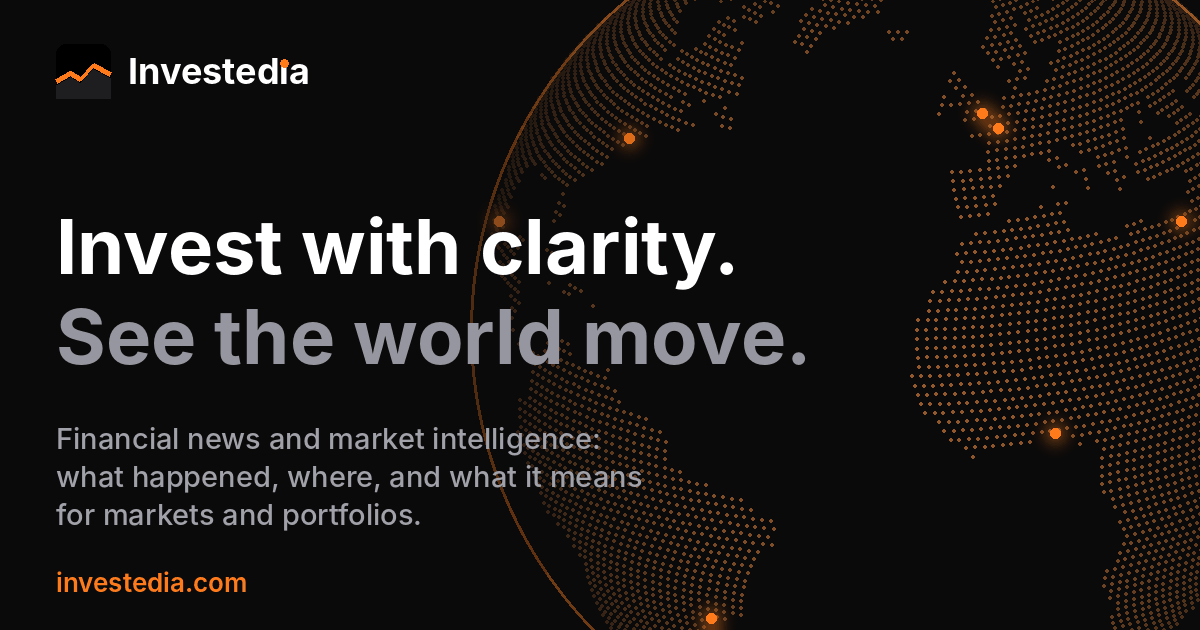
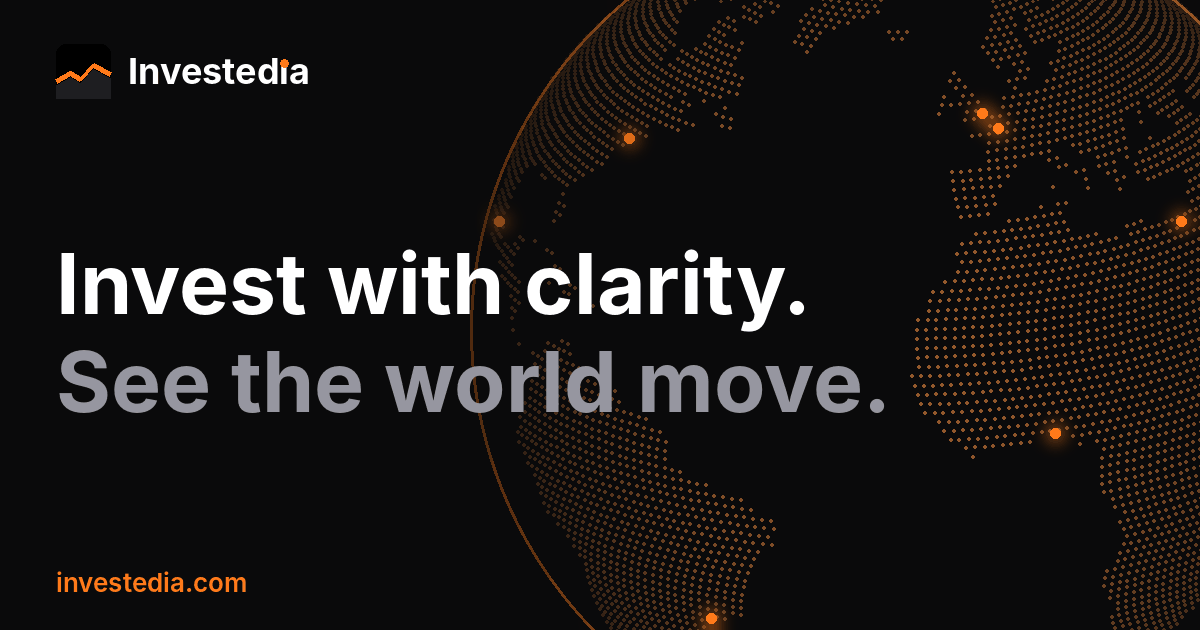
Link preview image with less text; Globe page shows the full globe with its controls
Claude-Session: https://claude.ai/code/session_01TVwQquwWiQ4b1A5oxv7JkP

Changed region(s): [[0.0308, 0.3317, 0.74, 0.8444]]

diff --git a/docs/globe.html b/docs/globe.html
@@ -2,8 +2,8 @@
 <html lang="en">
 <head>
 <meta charset="utf-8">
-<link rel="stylesheet" href="assets/consent.css?v=f475aa9965">
-<script src="assets/consent.js?v=f475aa9965"></script>
+<link rel="stylesheet" href="assets/consent.css?v=57b59e53c1">
+<script src="assets/consent.js?v=57b59e53c1"></script>
 <meta name="viewport" content="width=device-width,initial-scale=1,viewport-fit=cover">
 <title>Financial news globe — Investedia</title>
 <meta name="description" content="Every market on one interactive globe: stocks, currencies, commodities and stablecoins in 136 countries.">
@@ -22,8 +22,8 @@
 <meta name="twitter:description" content="Every market on one interactive globe: stocks, currencies, commodities and stablecoins in 136 countries.">
 <meta name="twitter:image" content="https://investedia.com/assets/og-default.png">
 <link rel="icon" href="assets/favicon.svg" type="image/svg+xml">
-<link rel="stylesheet" href="assets/app.css?v=f475aa9965">
-<link rel="stylesheet" href="assets/skin.css?v=f475aa9965">
+<link rel="stylesheet" href="assets/app.css?v=57b59e53c1">
+<link rel="stylesheet" href="assets/skin.css?v=57b59e53c1">
 <link rel="apple-touch-icon" href="assets/app/apple-touch-icon.png">
 <link rel="manifest" href="manifest.webmanifest">
 <meta name="apple-mobile-web-app-capable" content="yes">
@@ -46,19 +46,19 @@
 <a class="skip-link" href="#main-content">Skip to main content</a>
 <script src="assets/quotes.js"></script>
 <script src="assets/news.js"></script>
-<script src="assets/mock.js?v=f475aa9965"></script>
-<script src="assets/legal-owner.js?v=f475aa9965"></script>
-<link rel="stylesheet" href="assets/news-menu.css?v=f475aa9965">
-<script src="assets/live-config.js?v=f475aa9965"></script>
-<script src="assets/prefs.js?v=f475aa9965"></script>
-<script src="assets/peek.js?v=f475aa9965"></script>
-<script src="assets/sectors.js?v=f475aa9965"></script>
-<script src="assets/news-menu.js?v=f475aa9965"></script>
-<script src="assets/ui.js?v=f475aa9965"></script>
-<script src="assets/news-alerts.js?v=f475aa9965" defer></script>
+<script src="assets/mock.js?v=57b59e53c1"></script>
+<script src="assets/legal-owner.js?v=57b59e53c1"></script>
+<link rel="stylesheet" href="assets/news-menu.css?v=57b59e53c1">
+<script src="assets/live-config.js?v=57b59e53c1"></script>
+<script src="assets/prefs.js?v=57b59e53c1"></script>
+<script src="assets/peek.js?v=57b59e53c1"></script>
+<script src="assets/sectors.js?v=57b59e53c1"></script>
+<script src="assets/news-menu.js?v=57b59e53c1"></script>
+<script src="assets/ui.js?v=57b59e53c1"></script>
+<script src="assets/news-alerts.js?v=57b59e53c1" defer></script>
 <main class="wrap" id="main-content" tabindex="-1">
 <section class="globe-page"><iframe id="globe-frame" title="Financial news globe"></iframe></section>
-<script>document.getElementById('globe-frame').src = 'assets/globe/news.html?embed=1' + (location.search ? '&' + location.search.slice(1) : '');</script>
+<script>document.getElementById('globe-frame').src = 'assets/globe/news.html' + location.search;</script>
 </main>
 </body>
 </html>

diff --git a/globe.html b/globe.html
@@ -2,8 +2,8 @@
 <html lang="en">
 <head>
 <meta charset="utf-8">
-<link rel="stylesheet" href="assets/consent.css?v=f475aa9965">
-<script src="assets/consent.js?v=f475aa9965"></script>
+<link rel="stylesheet" href="assets/consent.css?v=57b59e53c1">
+<script src="assets/consent.js?v=57b59e53c1"></script>
 <meta name="viewport" content="width=device-width,initial-scale=1,viewport-fit=cover">
 <title>Financial news globe — Investedia</title>
 <meta name="description" content="Every market on one interactive globe: stocks, currencies, commodities and stablecoins in 136 countries.">
@@ -22,8 +22,8 @@
 <meta name="twitter:description" content="Every market on one interactive globe: stocks, currencies, commodities and stablecoins in 136 countries.">
 <meta name="twitter:image" content="https://investedia.com/assets/og-default.png">
 <link rel="icon" href="assets/favicon.svg" type="image/svg+xml">
-<link rel="stylesheet" href="assets/app.css?v=f475aa9965">
-<link rel="stylesheet" href="assets/skin.css?v=f475aa9965">
+<link rel="stylesheet" href="assets/app.css?v=57b59e53c1">
+<link rel="stylesheet" href="assets/skin.css?v=57b59e53c1">
 <link rel="apple-touch-icon" href="assets/app/apple-touch-icon.png">
 <link rel="manifest" href="manifest.webmanifest">
 <meta name="apple-mobile-web-app-capable" content="yes">
@@ -46,19 +46,19 @@
 <a class="skip-link" href="#main-content">Skip to main content</a>
 <script src="assets/quotes.js"></script>
 <script src="assets/news.js"></script>
-<script src="assets/mock.js?v=f475aa9965"></script>
-<script src="assets/legal-owner.js?v=f475aa9965"></script>
-<link rel="stylesheet" href="assets/news-menu.css?v=f475aa9965">
-<script src="assets/live-config.js?v=f475aa9965"></script>
-<script src="assets/prefs.js?v=f475aa9965"></script>
-<script src="assets/peek.js?v=f475aa9965"></script>
-<script src="assets/sectors.js?v=f475aa9965"></script>
-<script src="assets/news-menu.js?v=f475aa9965"></script>
-<script src="assets/ui.js?v=f475aa9965"></script>
-<script src="assets/news-alerts.js?v=f475aa9965" defer></script>
+<script src="assets/mock.js?v=57b59e53c1"></script>
+<script src="assets/legal-owner.js?v=57b59e53c1"></script>
+<link rel="stylesheet" href="assets/news-menu.css?v=57b59e53c1">
+<script src="assets/live-config.js?v=57b59e53c1"></script>
+<script src="assets/prefs.js?v=57b59e53c1"></script>
+<script src="assets/peek.js?v=57b59e53c1"></script>
+<script src="assets/sectors.js?v=57b59e53c1"></script>
+<script src="assets/news-menu.js?v=57b59e53c1"></script>
+<script src="assets/ui.js?v=57b59e53c1"></script>
+<script src="assets/news-alerts.js?v=57b59e53c1" defer></script>
 <main class="wrap" id="main-content" tabindex="-1">
 <section class="globe-page"><iframe id="globe-frame" title="Financial news globe"></iframe></section>
-<script>document.getElementById('globe-frame').src = 'assets/globe/news.html?embed=1' + (location.search ? '&' + location.search.slice(1) : '');</script>
+<script>document.getElementById('globe-frame').src = 'assets/globe/news.html' + location.search;</script>
 </main>
 </body>
 </html>

diff --git a/src/pages/globe.html b/src/pages/globe.html
@@ -1,3 +1,3 @@
 {"title":"Financial news globe — Investedia","desc":"Every market on one interactive globe: stocks, currencies, commodities and stablecoins in 136 countries.","key":"globe"}
 <section class="globe-page"><iframe id="globe-frame" title="Financial news globe"></iframe></section>
-<script>document.getElementById('globe-frame').src = 'assets/globe/news.html?embed=1' + (location.search ? '&' + location.search.slice(1) : '');</script>
+<script>document.getElementById('globe-frame').src = 'assets/globe/news.html' + location.search;</script>

diff --git a/update_share_cards.py b/update_share_cards.py
@@ -186,13 +186,9 @@ def render_site():
             px[x, y] = (10, 10, 11, a)
     im.paste(shade, (0, 0), shade); d = ImageDraw.Draw(im)
     draw_logo(d, F)
-    big = F('Inter-Bold.otf', 76)
-    d.text((56, 200), 'Invest with clarity.', font=big, fill=FG)
-    d.text((56, 290), 'See the world move.', font=big, fill=(150, 150, 160))
-    sub = F('Inter-Medium.otf', 29)
-    d.text((56, 420), 'Financial news and market intelligence:', font=sub, fill=MUTED)
-    d.text((56, 458), 'what happened, where, and what it means', font=sub, fill=MUTED)
-    d.text((56, 496), 'for markets and portfolios.', font=sub, fill=MUTED)
+    big = F('Inter-Bold.otf', 84)
+    d.text((56, 232), 'Invest with clarity.', font=big, fill=FG)
+    d.text((56, 330), 'See the world move.', font=big, fill=(150, 150, 160))
     d.text((56, 566), 'investedia.com', font=F('Inter-SemiBold.otf', 26), fill=ORANGE)
     return im
 
